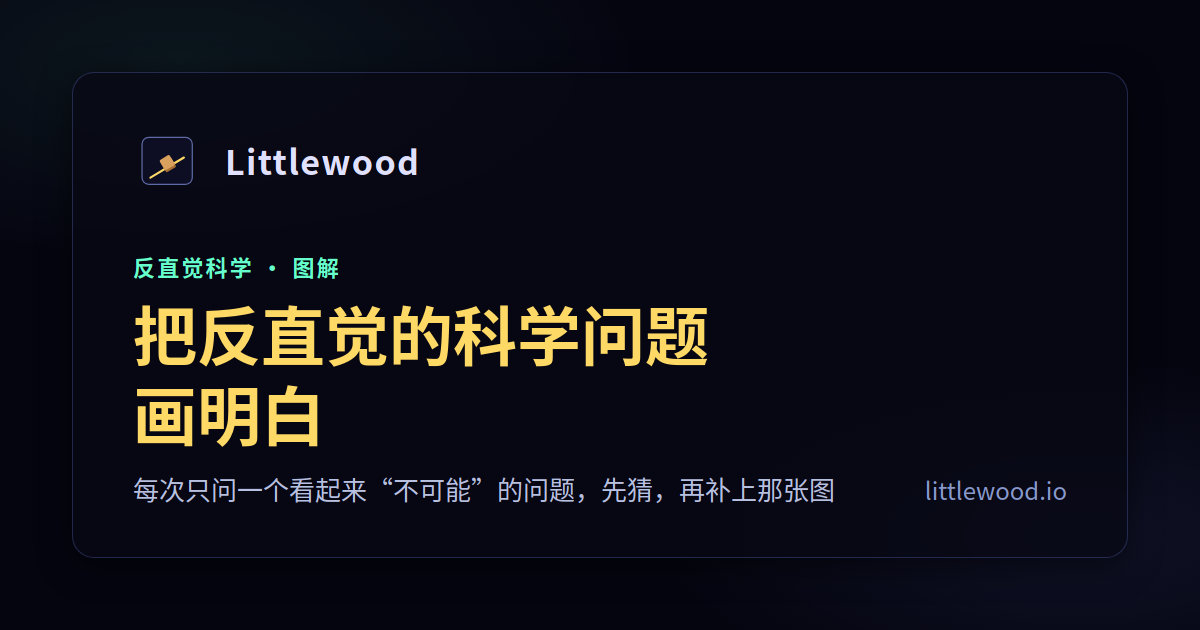
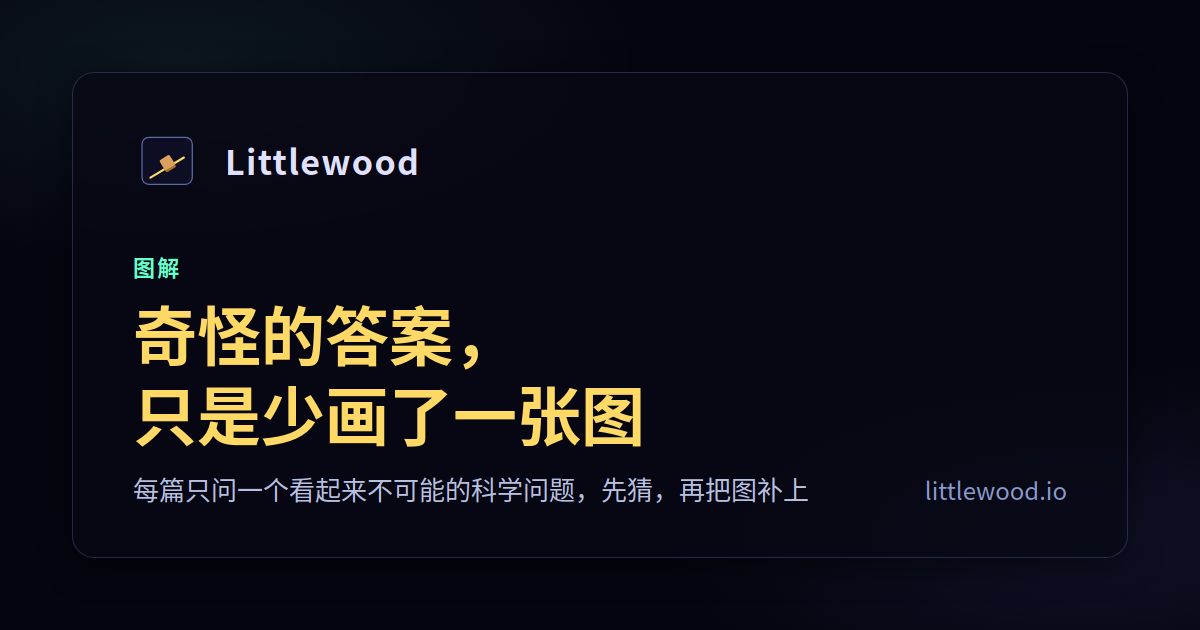
New tagline, drop the hero eyebrow and all GitHub links
Tagline is now “奇怪的答案，只是少画了一张图” everywhere (home, article
footers, 404, meta, JSON-LD, home OG image); the word 反直觉 is gone from
all copy. Removed the GitHub links from the home topbar and footer, the
article footers and the 404 hint.

Claude-Session: https://claude.ai/code/session_01MxjZvpB39AtAtkKDqd69u6

diff --git a/public/index.html b/public/index.html
@@ -3,7 +3,7 @@
 <head>
 <meta charset="UTF-8">
 <meta name="viewport" content="width=device-width, initial-scale=1.0">
-<title>Littlewood · 把反直觉的科学问题画明白</title>
+<title>Littlewood · 奇怪的答案，只是少画了一张图</title>
 <meta name="description" content="Littlewood：每篇只问一个看起来不可能的科学问题，先猜，再用几张图把它画明白。">
 <link rel="canonical" href="https://littlewood.io/">
 <meta name="theme-color" content="#050510">
@@ -11,14 +11,14 @@
 <meta property="og:site_name" content="Littlewood">
 <meta property="og:locale" content="zh_CN">
 <meta property="og:url" content="https://littlewood.io/">
-<meta property="og:title" content="Littlewood · 把反直觉的科学问题画明白">
+<meta property="og:title" content="Littlewood · 奇怪的答案，只是少画了一张图">
 <meta property="og:description" content="每次只问一个看起来“不可能”的科学问题，用几张图把它画明白。">
 <meta property="og:image" content="https://littlewood.io/og-index.png">
 <meta property="og:image:width" content="1200">
 <meta property="og:image:height" content="630">
-<meta property="og:image:alt" content="Littlewood：把反直觉的科学问题画明白">
+<meta property="og:image:alt" content="Littlewood：奇怪的答案，只是少画了一张图">
 <meta name="twitter:card" content="summary_large_image">
-<meta name="twitter:title" content="Littlewood · 把反直觉的科学问题画明白">
+<meta name="twitter:title" content="Littlewood · 奇怪的答案，只是少画了一张图">
 <meta name="twitter:description" content="每次只问一个看起来“不可能”的科学问题，用几张图把它画明白。">
 <meta name="twitter:image" content="https://littlewood.io/og-index.png">
 <link rel="icon" type="image/svg+xml" href="./favicon.svg?v=5">
@@ -36,8 +36,6 @@ body{overflow-x:hidden}
 .brand{display:inline-flex;align-items:center;gap:10px;color:var(--chalk-muted);text-decoration:none;font-weight:700;letter-spacing:.08em;transition:color .15s}
 .brand:hover,.brand:focus-visible{color:var(--yellow)}
 .brand svg{width:32px;height:32px}
-.top .gh{color:var(--chalk-dim);text-decoration:none;font-size:.85rem;letter-spacing:.06em;transition:color .15s}
-.top .gh:hover,.top .gh:focus-visible{color:var(--mint)}
 
 /* 首屏：全屏点阵地形 + 一句话 */
 .hero{position:relative;min-height:100vh;min-height:100svh;display:flex;align-items:center;overflow:hidden}
@@ -45,7 +43,6 @@ body{overflow-x:hidden}
 .hero::after{content:"";position:absolute;inset:auto 0 0;height:200px;background:linear-gradient(transparent,var(--board));pointer-events:none}
 .hero::before{content:"";position:absolute;inset:0;z-index:1;background:linear-gradient(100deg,rgba(5,5,16,.9) 0%,rgba(5,5,16,.55) 34%,transparent 58%);pointer-events:none}
 .hero-copy{position:relative;z-index:2;width:100%;max-width:1120px;margin:0 auto;padding:120px 24px 110px}
-.eyebrow{margin:0 0 12px;color:var(--mint);font-size:.88rem;font-weight:700;letter-spacing:.3em}
 .hero h1{margin:0 0 14px;font-weight:800;font-size:clamp(3.4rem,9.6vw,7.6rem);line-height:1.02;letter-spacing:-.01em;color:var(--heading);background:linear-gradient(120deg,#e0e0ff 0%,#aaccff 48%,#66ffcc 100%);-webkit-background-clip:text;background-clip:text;-webkit-text-fill-color:transparent;text-shadow:none}
 .tagline{margin:0 0 12px;color:var(--yellow);font-weight:800;font-size:clamp(1.2rem,2.8vw,1.6rem);letter-spacing:.04em}
 .sub{margin:0 0 30px;max-width:600px;color:var(--chalk-muted);font-size:1.02rem;text-shadow:0 2px 12px rgba(5,5,16,.9)}
@@ -60,7 +57,7 @@ body{overflow-x:hidden}
 @keyframes cue{0%{transform:translateY(0);opacity:1}70%{transform:translateY(12px);opacity:0}100%{opacity:0}}
 @keyframes up{from{opacity:0;transform:translateY(18px)}to{opacity:1;transform:none}}
 .js .hero-copy>*{animation:up .8s cubic-bezier(.2,.75,.2,1) backwards}
-.js .hero-copy>*:nth-child(2){animation-delay:.08s}.js .hero-copy>*:nth-child(3){animation-delay:.16s}.js .hero-copy>*:nth-child(4){animation-delay:.24s}.js .hero-copy>*:nth-child(5){animation-delay:.32s}
+.js .hero-copy>*:nth-child(2){animation-delay:.08s}.js .hero-copy>*:nth-child(3){animation-delay:.16s}.js .hero-copy>*:nth-child(4){animation-delay:.24s}
 
 /* 图解列表 */
 #list{max-width:1120px;margin:0 auto;padding:10px 24px 90px;scroll-margin-top:24px}
@@ -83,7 +80,7 @@ a.card:hover .go::after{margin-left:4px}
 .nowrap{white-space:nowrap}
 
 footer{max-width:1120px;margin:0 auto;padding:22px 24px 44px;border-top:1px solid var(--chalk-line);color:var(--chalk-dim);font-size:.84rem;display:flex;justify-content:space-between;gap:12px 24px;flex-wrap:wrap}
-footer p{margin:0}footer a{color:var(--chalk-dim)}footer a:hover{color:var(--mint)}
+footer p{margin:0}
 
 @media (max-width:960px){.grid{grid-template-columns:repeat(2,minmax(0,1fr))}.grid a.card:first-child{grid-column:1/-1}}
 @media (max-width:640px){
@@ -107,13 +104,11 @@ footer p{margin:0}footer a{color:var(--chalk-dim)}footer a:hover{color:var(--min
         <svg viewBox="10 12 82 74" aria-hidden="true"><use href="./mark.svg#mark"/></svg>
         Littlewood
       </a>
-      <a class="gh" href="https://github.com/shdxiang/littlewood.io">GitHub</a>
     </header>
     <div class="hero-copy">
-      <p class="eyebrow">反直觉 · 科学 · 图解</p>
       <h1 id="site-title">Littlewood</h1>
-      <p class="tagline">把反直觉的科学问题画明白。</p>
-      <p class="sub">奇怪的答案，往往只是少画了一张图。<br>每篇只问一个看起来不可能的问题：先猜，再把图补上。</p>
+      <p class="tagline">奇怪的答案，只是少画了一张图。</p>
+      <p class="sub">每篇只问一个看起来不可能的科学问题。<br>先猜，再把少画的那张图补上。</p>
       <div class="cta"><a class="primary" href="./riemann-hypothesis">看最新图解</a><a class="ghost" href="#list">全部图解</a></div>
     </div>
     <div class="cue" aria-hidden="true"></div>
@@ -219,8 +214,8 @@ footer p{margin:0}footer a{color:var(--chalk-dim)}footer a:hover{color:var(--min
 </main>
 
 <footer>
-  <p>Littlewood · 把反直觉的科学问题画明白</p>
-  <p>名字来自数学家 J. E. Littlewood · <a href="https://github.com/shdxiang/littlewood.io">源码（GitHub，MIT）</a></p>
+  <p>Littlewood · 奇怪的答案，只是少画了一张图</p>
+  <p>名字来自数学家 J. E. Littlewood</p>
 </footer>
 
 <script>
@@ -325,7 +320,7 @@ footer p{margin:0}footer a{color:var(--chalk-dim)}footer a:hover{color:var(--min
 })();
 </script>
 <script type="application/ld+json">
-{"@context":"https://schema.org","@type":"WebSite","name":"Littlewood","url":"https://littlewood.io/","description":"把反直觉的科学问题画明白。","inLanguage":"zh-CN"}
+{"@context":"https://schema.org","@type":"WebSite","name":"Littlewood","url":"https://littlewood.io/","description":"奇怪的答案，只是少画了一张图。","inLanguage":"zh-CN"}
 </script>
 </body>
 </html>

diff --git a/public/404.html b/public/404.html
@@ -5,7 +5,7 @@
 <meta name="viewport" content="width=device-width, initial-scale=1.0">
 <title>找不到这一页 · Littlewood</title>
 <meta name="robots" content="noindex">
-<meta name="description" content="这一页不在 Littlewood 上。返回首页，继续看反直觉科学问题的图解。">
+<meta name="description" content="这一页不在 Littlewood 上。返回首页，继续看图解。">
 <meta name="theme-color" content="#050510">
 <link rel="icon" type="image/svg+xml" href="/favicon.svg?v=5">
 <link rel="icon" type="image/png" sizes="192x192" href="/icon-192.png?v=5">
@@ -22,7 +22,6 @@ main{width:min(100%,560px)}
 h1{font-size:clamp(1.55rem,6vw,2rem);line-height:1.4;font-weight:800;margin:0 0 8px;color:var(--yellow)}
 p{margin:0 auto 22px;color:var(--chalk-muted);max-width:380px}
 .actions{display:flex;justify-content:center;flex-wrap:wrap;gap:10px}.actions a{display:inline-block;border-radius:999px;padding:9px 18px;font-weight:800;text-decoration:none}.home{color:var(--board-deep);background:var(--yellow)}.article{color:var(--chalk);border:1px solid var(--line);background:var(--panel-2)}
-.hint{margin:24px 0 0;color:var(--chalk-dim);font-size:.82rem}.hint a{color:var(--chalk-dim)}
 @media(max-width:480px){.paper{padding:32px 18px 27px}.actions{display:grid}.actions a{width:100%}}
 </style>
 </head>
@@ -38,7 +37,6 @@ p{margin:0 auto 22px;color:var(--chalk-muted);max-width:380px}
     <p>地址可能写错了，或者这篇图解还在路上。</p>
     <div class="actions"><a class="home" href="/">回到图解目录</a><a class="article" href="/riemann-hypothesis">看最新图解</a></div>
   </div>
-  <p class="hint">如果这里本该有内容，可以在 <a href="https://github.com/shdxiang/littlewood.io/issues">GitHub 告诉我们</a>。</p>
 </main>
 </body>
 </html>

diff --git a/public/hydrostatic-paradox.html b/public/hydrostatic-paradox.html
@@ -507,9 +507,8 @@ body{line-height:1.85}
 
 <footer>
   <a href="./">← 返回 Littlewood 首页</a><br>
-  Littlewood · 把反直觉的科学问题画明白<br>
-  文中数字均为「概念示例」，只为看清数量级；理想模型的假设见第 2 节。<br>
-  <a href="https://github.com/shdxiang/littlewood.io">源码（GitHub，MIT）</a>
+  Littlewood · 奇怪的答案，只是少画了一张图<br>
+  文中数字均为「概念示例」，只为看清数量级；理想模型的假设见第 2 节。
 </footer>
 
 <script src="./article.js?v=1"></script>

diff --git a/public/space-acrophobia.html b/public/space-acrophobia.html
@@ -414,9 +414,8 @@ body{line-height:1.85}
 
 <footer>
   <a href="./">← 返回 Littlewood 首页</a><br>
-  Littlewood · 把反直觉的科学问题画明白<br>
-  文中恐惧指示均为「概念示例」，不是测量值；资料出处见第 4 节。<br>
-  <a href="https://github.com/shdxiang/littlewood.io">源码（GitHub，MIT）</a>
+  Littlewood · 奇怪的答案，只是少画了一张图<br>
+  文中恐惧指示均为「概念示例」，不是测量值；资料出处见第 4 节。
 </footer>
 
 <script src="./article.js?v=1"></script>

diff --git a/CLAUDE.md b/CLAUDE.md
@@ -4,14 +4,14 @@ This file provides guidance to Claude Code (claude.ai/code) when working with co
 
 ## What this is
 
-Littlewood (https://littlewood.io; the site is branded only “Littlewood” since 2026-10-29, the old name 小木块 is gone from pages, OG images and logo.svg) — a static Chinese science site: counterintuitive “impossible” questions, answered with a few figures (tagline “把反直觉的科学问题画明白”). Two 图解 articles plus one 3D 示意 page (`/riemann-hypothesis`, three.js, self-hosted under `public/vendor/`). 图解 01 "为什么 1 千克的薄层水，仍可能让挡板承受 1000 吨力？" (hydrostatic pressure paradox) and 图解 02 "在太空失重，还会恐高吗？" (EVA height vertigo / visual reorientation).
+Littlewood (https://littlewood.io; the site is branded only “Littlewood” since 2026-10-29, the old name 小木块 is gone from pages, OG images and logo.svg) — a static Chinese science site: “impossible”-looking science questions, answered with a few figures (tagline “奇怪的答案，只是少画了一张图”). Two 图解 articles plus one 3D 示意 page (`/riemann-hypothesis`, three.js, self-hosted under `public/vendor/`). 图解 01 "为什么 1 千克的薄层水，仍可能让挡板承受 1000 吨力？" (hydrostatic pressure paradox) and 图解 02 "在太空失重，还会恐高吗？" (EVA height vertigo / visual reorientation).
 
 - Plain static files in `public/`, no build step. Self-hosted libraries are fine (put them under `public/`, load only on the page that needs them, keep the CSP in `_headers` at `self`; the only outside hosts are Cloudflare Web Analytics, which Cloudflare injects: `static.cloudflareinsights.com` in script-src, `cloudflareinsights.com` in connect-src). Shared code lives in a few files (2026-09-07, replaced the old "every page self-contained" rule):
   - `site.css` — tokens, board background, fonts, focus, reduced-motion. Every page links it.
   - `article.css` + `article.js` — everything the 图解 pages share (topbar, hero, quicknav, figbox, demo controls, reveal/progress/backtop). Articles link both; page-specific colors and demo logic stay in the page's own `<style>`/`<script>`.
   - `mark.svg` — the logo mark as `<symbol id="mark">`; pages draw it with `<svg viewBox="10 12 82 74"><use href="./mark.svg#mark"/></svg>` (404 uses the absolute `/mark.svg` because it serves at any path). Figures/SVG stay inline in the page.
   - Shared files are cached 7 days via `_headers`; bump the `?v=N` on the `<link>`/`<script>` tags in all pages when a shared file changes.
-- `public/index.html` — landing page (2026-10-29 redesign): a full-viewport hero (brand, one-line tagline, two CTAs) over a 2D-canvas dot-field terrain that echoes the Riemann page (valley = critical line, gold points in it; inline script, no three.js, pauses when hidden/off-screen, one static frame under reduced-motion), then a 3-column `.grid` of article cards (`a.card.glass`: SVG thumb on top, tag/question/hook), then a one-line footer. No principles section, no quote card. A new article = a new `public/<english-slug>.html` + a card here (newest first, move the `最新` label).
+- `public/index.html` — landing page (2026-10-29 redesign): a full-viewport hero (brand, one-line tagline, two CTAs, no eyebrow) over a 2D-canvas dot-field terrain that echoes the Riemann page (valley = critical line, gold points in it; inline script, no three.js, pauses when hidden/off-screen, one static frame under reduced-motion), then a 3-column `.grid` of article cards (`a.card.glass`: SVG thumb on top, tag/question/hook), then a one-line footer. No principles section, no quote card. A new article = a new `public/<english-slug>.html` + a card here (newest first, move the `最新` label).
 - `public/hydrostatic-paradox.html`, `public/space-acrophobia.html` — the articles (both use `article.css`/`article.js`; new article = copy 02's HTML, keep the `<link>`/`<script>` tags).
 - `public/404.html`, `robots.txt`, `sitemap.xml`, `_headers`, `og-*.png` (1200×630 social previews) — add a sitemap entry + OG image for each new article.
 - `wrangler.toml` — Cloudflare Worker static-assets config serving `public/`, custom domain littlewood.io.
@@ -28,7 +28,7 @@ Littlewood (https://littlewood.io; the site is branded only “Littlewood” sin
 - Article 02 (perception) uses its own set: green real gravity (same meaning), teal vestibular signal, blue visual cue, red "大脑认定的下", orange fear/alarm. Astronaut is the `#astro` / `#astro-stand` `<symbol>`-style groups in the page's hidden defs SVG.
 - Dark theme (2026-10-29, replaced the chalkboard): page ground is deep navy-black `#050510` with two faint radial glows (mint top-left, lavender bottom-right); panels are glass — `rgba(8,8,20,.75)` + `blur(8px)` + 1px `rgba(120,140,255,.25)` border (`.glass` in `site.css`; `article.css` applies it to `.card/.figbox/...`). Text is lavender white `#e0e0ff` (muted `#b8c0e0`, dim `#8899cc`), headings `#aaccff`, accents gold `#ffd966` (titles, CTA, numbers) and mint `#66ffcc` (links, series tag, answers). Token names in `site.css` kept their old chalkboard names (`--chalk`, `--yellow`, `--board`) so pages didn't change. SVG figures are drawn on the dark panel too (`.figbox svg` / `.item svg.thumb` background `--panel-solid` `#0d0d24`): paper `#0d0d24`, ink text `#e0e0ff`, greys `#a3acbd`/`#9aa4b8`/`#8f9bb3`, light objects (astronaut, boards, cards) stay light, and the semantic colors are the brightened set — green `#3fcf6a`, teal `#22c3dd`, blue `#4dabf7`, red `#ff6b6b`, orange `#ff7a2f`, purple `#9775fa`, water `#4aa3ff` / `rgba(74,163,255,x)`. Use these in new figures and legend swatches. No tape corners, no dashed rules, no rotation — clean panels like the Riemann page.
 - Logo (2026-10-29): a dark rounded tile (`#0d0d24`, lavender border) with a gold slope and the small wood block (#d9a05e/#a86f32). Same mark in favicon.svg, icon-*.png, logo.svg, index cover, 404 (tile with a chalk-grey face) and OG images; bump `favicon.svg?v=N` + `.png?v=N` when it changes. The article's "Littlewood 说" bubble keeps the wood-block-head character. OG PNGs are rendered from HTML with the headless shell (1200×630): dark bg, glass panel, mint eyebrow, gold headline, lavender subtitle.
-- Copy no longer says “用中学知识” (dropped 2026-10-29): the site tagline is “把反直觉的科学问题画明白”; don't reintroduce the middle-school framing in titles, meta or OG images.
+- Copy no longer says “用中学知识” (dropped 2026-10-29): the site tagline is “奇怪的答案，只是少画了一张图” (2026-10-29; the word 反直觉 was dropped from all copy too); don't reintroduce the middle-school framing or 反直觉 in titles, meta or OG images.
 - Numbers on the page are labeled "概念示例" (conceptual examples); don't present them as measured values.
 
 ## Editorial principles (site review, 2026-09)

diff --git a/README.md b/README.md
@@ -1,6 +1,6 @@
 # Littlewood · littlewood.io
 
-把反直觉的科学问题画明白。静态站点，无构建步骤；共用样式在 `public/site.css`、`public/article.css`，图/SVG 内联在各页里。深色主题：深蓝黑底、毛玻璃面板、金/青强调。
+奇怪的答案，只是少画了一张图。静态站点，无构建步骤；共用样式在 `public/site.css`、`public/article.css`，图/SVG 内联在各页里。深色主题：深蓝黑底、毛玻璃面板、金/青强调。
 
 - 首页：`public/index.html`（文章目录）
 - 文章：`public/hydrostatic-paradox.html`（《为什么 1 千克的薄层水，仍可能让挡板承受 1000 吨力？》），线上地址不带 `.html`：https://littlewood.io/hydrostatic-paradox
